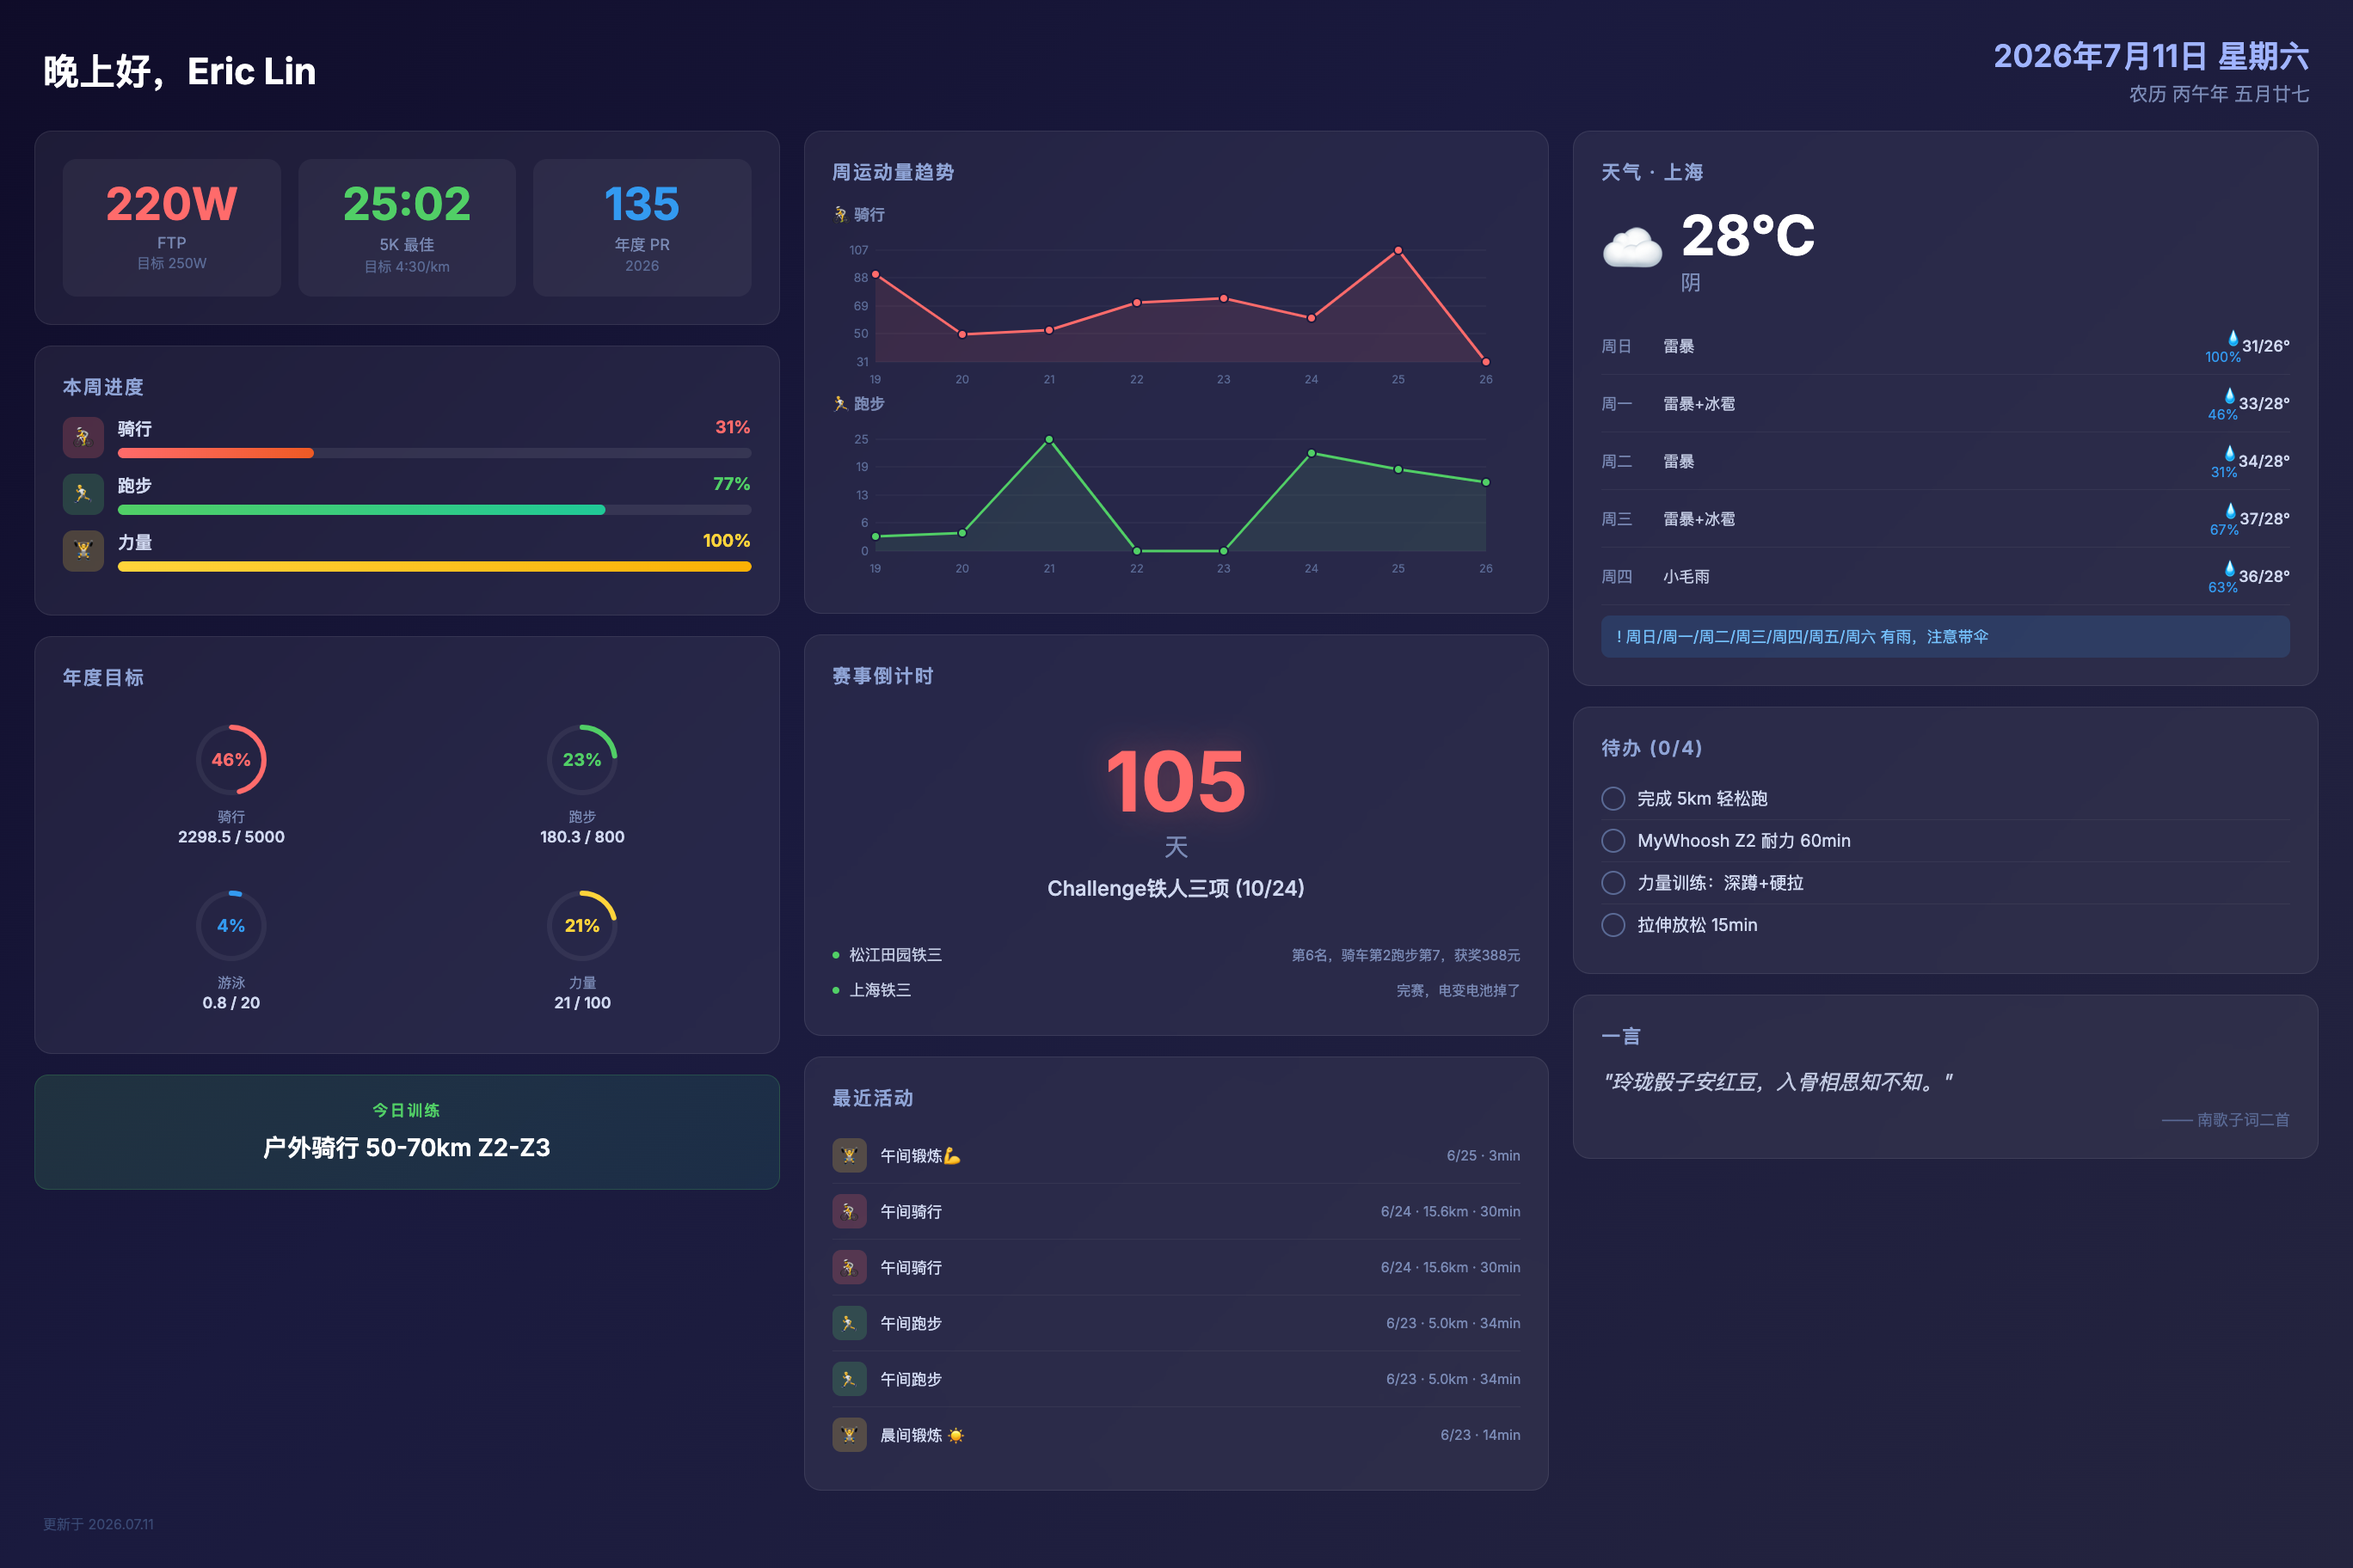
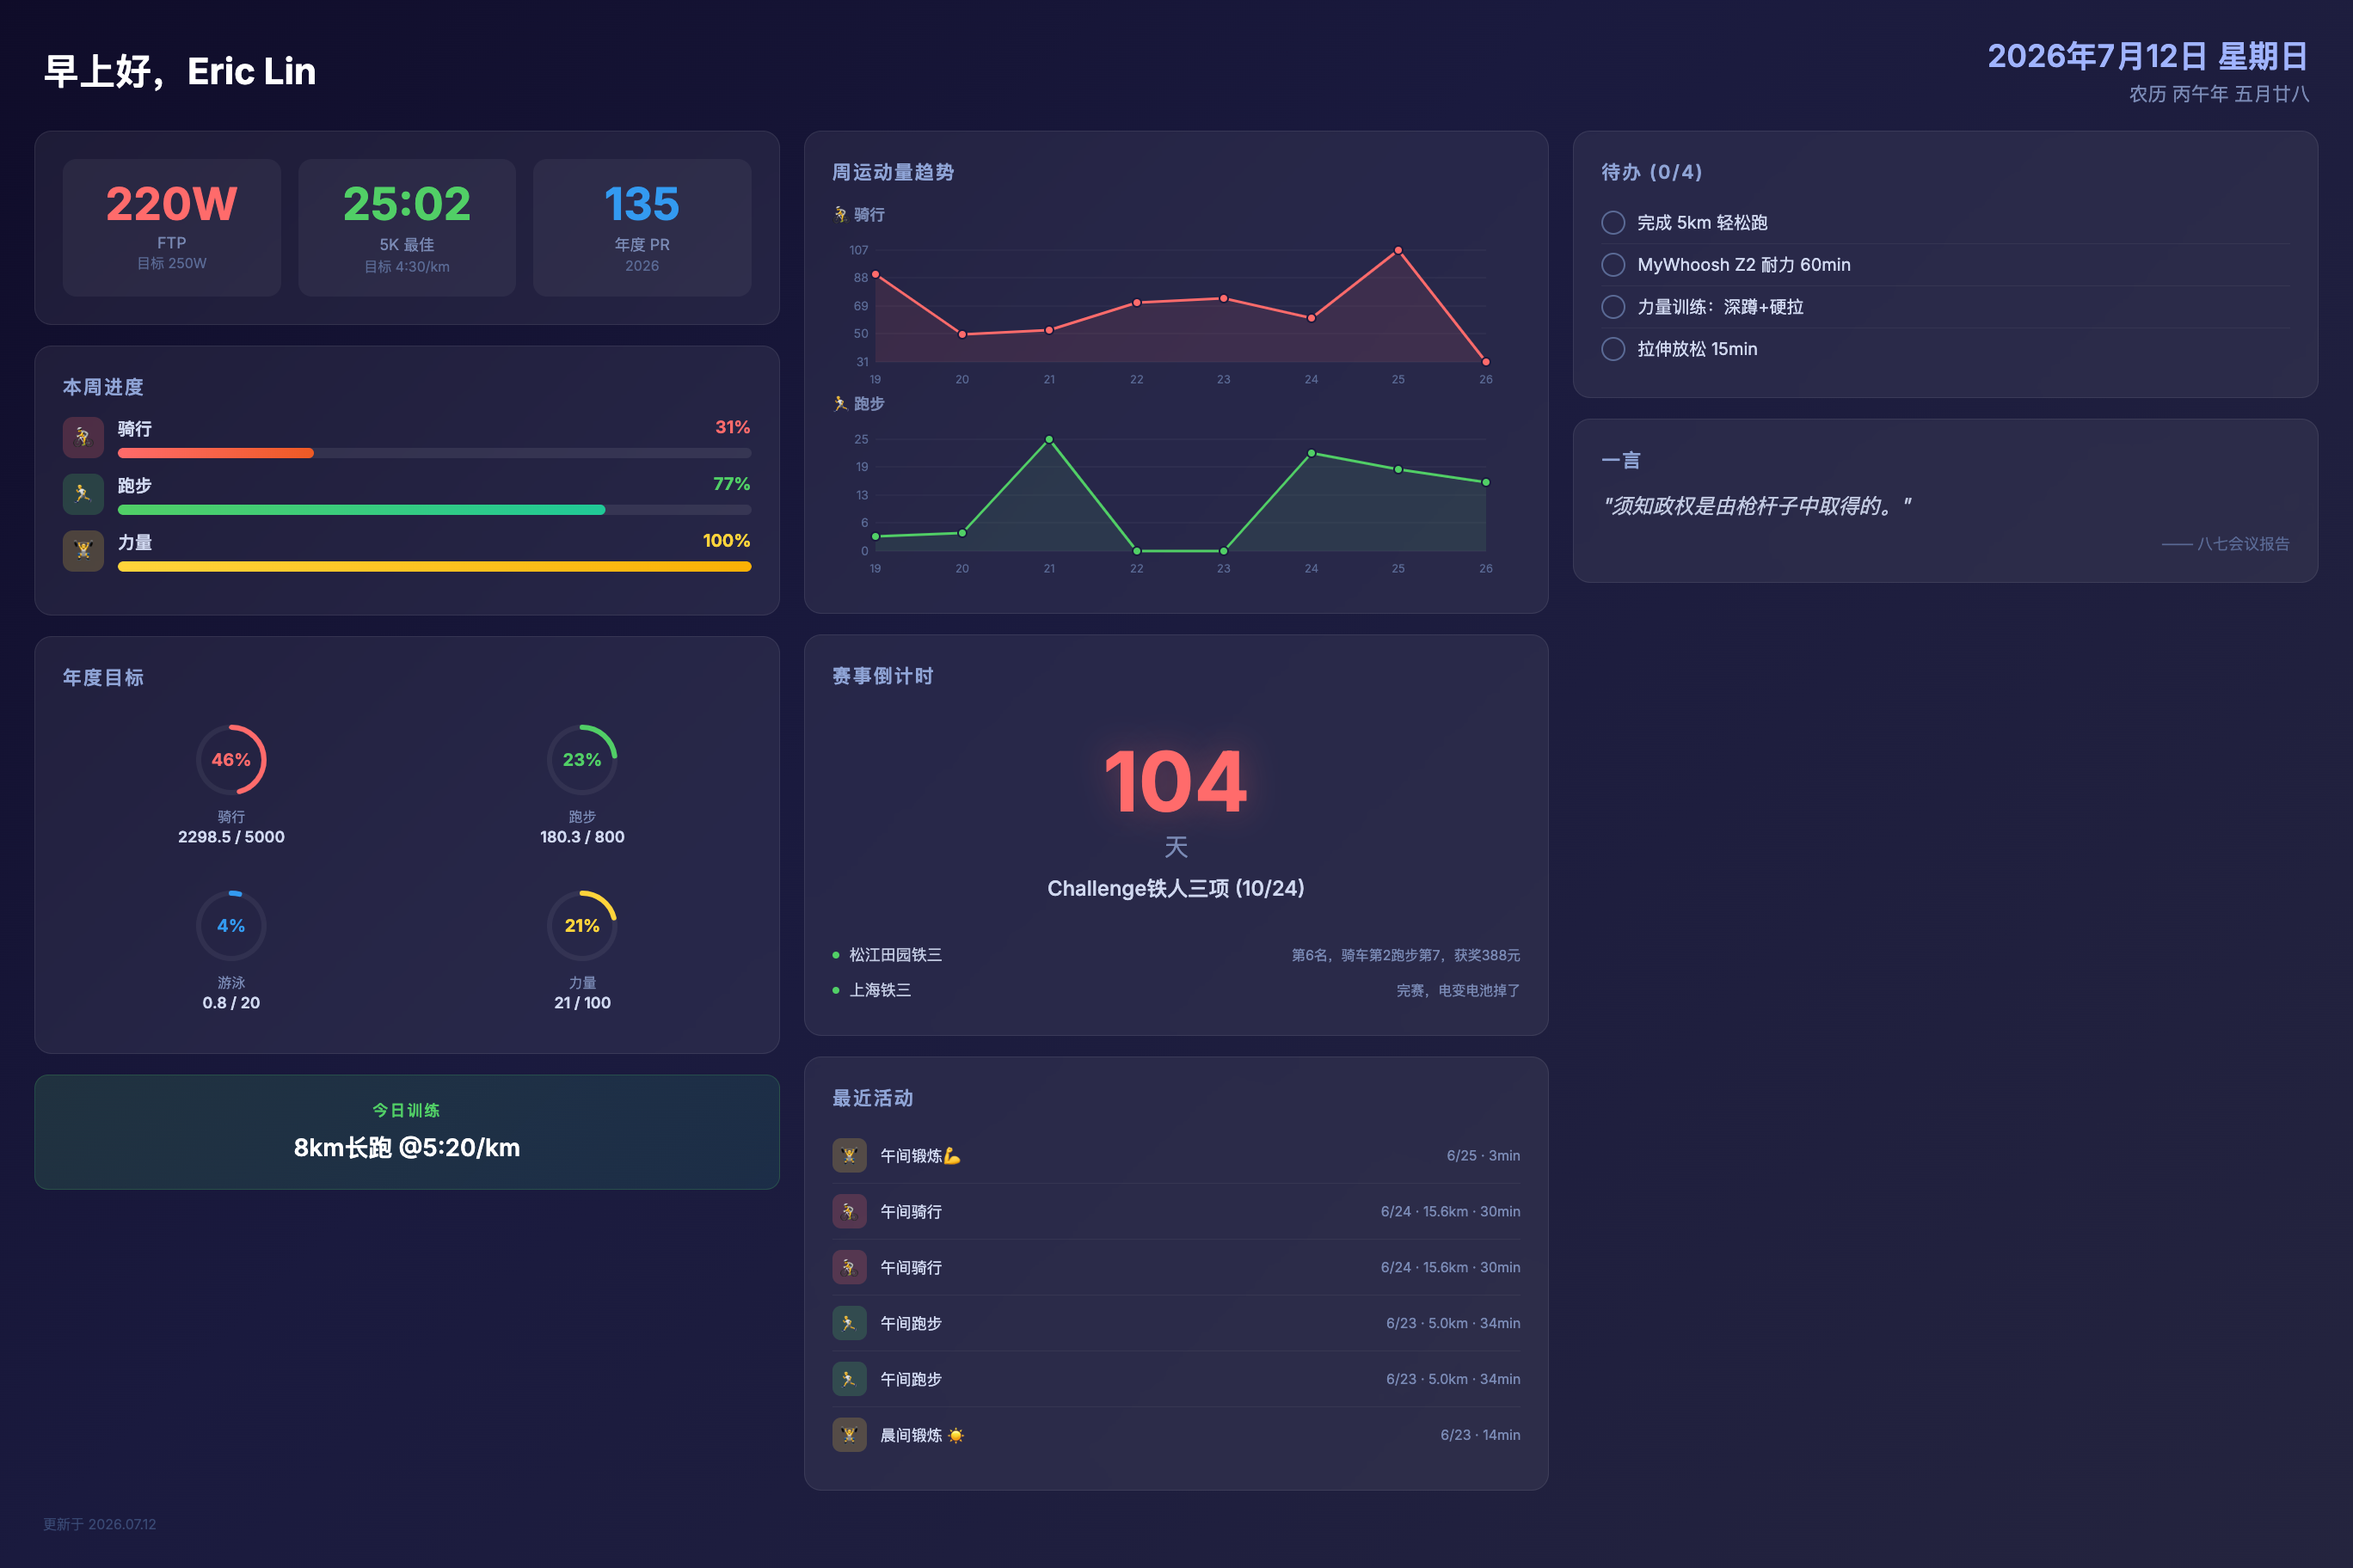
deploy: 2026-07-12-07:00

diff --git a/screensaver.html b/screensaver.html
@@ -490,13 +490,13 @@ html, body {
 <!-- ===== TOP BAR ===== -->
 <div class="top-bar">
   <div>
-    <div class="greeting">晚上好，Eric Lin</div>
+    <div class="greeting">早上好，Eric Lin</div>
     
   </div>
   <div class="date-info">
-    <div class="solar-date">2026年7月11日 星期六</div>
+    <div class="solar-date">2026年7月12日 星期日</div>
     
-    <div class="lunar-date">农历 丙午年 五月廿七</div>
+    <div class="lunar-date">农历 丙午年 五月廿八</div>
     
   </div>
 </div>
@@ -638,7 +638,7 @@ html, body {
   
   <div class="ai-today-card">
     <div class="ai-today-label">今日训练</div>
-    <div class="ai-today-text">户外骑行 50-70km Z2-Z3</div>
+    <div class="ai-today-text">8km长跑 @5:20/km</div>
   </div>
   
 
@@ -732,7 +732,7 @@ html, body {
   <div class="card">
     <div class="card-title">赛事倒计时</div>
     <div class="race-countdown">
-      <div class="countdown-number">105</div>
+      <div class="countdown-number">104</div>
       <div class="countdown-unit">天</div>
       <div class="countdown-name">Challenge铁人三项 (10/24)</div>
     </div>
@@ -805,58 +805,6 @@ html, body {
 
   <!-- Weather -->
   
-  <div class="card">
-    <div class="card-title">天气 · 上海</div>
-    <div class="weather-current">
-      <div class="weather-icon-big">☁</div>
-      <div>
-        <div class="weather-temp-big">28°C</div>
-        <div class="weather-desc">阴</div>
-      </div>
-    </div>
-    
-    
-    <div class="forecast-row">
-      <div class="forecast-day">周日</div>
-      <div class="forecast-desc">雷暴</div>
-      <div class="forecast-precip">💧100%</div>
-      <div class="forecast-range">31/26°</div>
-    </div>
-    
-    <div class="forecast-row">
-      <div class="forecast-day">周一</div>
-      <div class="forecast-desc">雷暴+冰雹</div>
-      <div class="forecast-precip">💧46%</div>
-      <div class="forecast-range">33/28°</div>
-    </div>
-    
-    <div class="forecast-row">
-      <div class="forecast-day">周二</div>
-      <div class="forecast-desc">雷暴</div>
-      <div class="forecast-precip">💧31%</div>
-      <div class="forecast-range">34/28°</div>
-    </div>
-    
-    <div class="forecast-row">
-      <div class="forecast-day">周三</div>
-      <div class="forecast-desc">雷暴+冰雹</div>
-      <div class="forecast-precip">💧67%</div>
-      <div class="forecast-range">37/28°</div>
-    </div>
-    
-    <div class="forecast-row">
-      <div class="forecast-day">周四</div>
-      <div class="forecast-desc">小毛雨</div>
-      <div class="forecast-precip">💧63%</div>
-      <div class="forecast-range">36/28°</div>
-    </div>
-    
-    
-    
-    <div class="rain-alert">! 周日/周一/周二/周三/周四/周五/周六 有雨，注意带伞</div>
-    
-  </div>
-  
 
   <!-- Todos -->
   
@@ -902,9 +850,9 @@ html, body {
   
   <div class="card">
     <div class="card-title">一言</div>
-    <div class="quote-text">"玲珑骰子安红豆，入骨相思知不知。"</div>
+    <div class="quote-text">"须知政权是由枪杆子中取得的。"</div>
     
-    <div class="quote-from">—— 南歌子词二首</div>
+    <div class="quote-from">—— 八七会议报告</div>
     
   </div>
   
@@ -913,7 +861,7 @@ html, body {
 
 <!-- ===== BOTTOM BAR ===== -->
 <div class="bottom-bar">
-  <div class="update-time">更新于 2026.07.11</div>
+  <div class="update-time">更新于 2026.07.12</div>
 </div>
 
 </div>

diff --git a/life.html b/life.html
@@ -89,7 +89,7 @@ html, body {
 <table class="header-table">
   <tr>
     <td class="header-left">生活</td>
-    <td class="header-right">2026.07.11</td>
+    <td class="header-right">2026.07.12</td>
   </tr>
 </table>
 
@@ -133,84 +133,16 @@ html, body {
 
 <!-- ===== 天气 ===== -->
 
-<div class="box">
-  <p class="section-title">☀ 天气 · 上海</p>
-  <table class="weather-table">
-    <tr>
-      <td class="weather-icon">~</td>
-      <td class="weather-temp">28°C</td>
-      <td class="weather-desc">阴</td>
-    </tr>
-  </table>
-  
-  <table class="forecast-table">
-    
-    <tr>
-      <td class="forecast-day">周日</td>
-      <td class="forecast-icon">!</td>
-      <td>雷暴</td>
-      <td class="forecast-range">31/26°C</td>
-    </tr>
-    
-    <tr>
-      <td class="forecast-day">周一</td>
-      <td class="forecast-icon">!</td>
-      <td>雷暴+冰雹</td>
-      <td class="forecast-range">33/28°C</td>
-    </tr>
-    
-    <tr>
-      <td class="forecast-day">周二</td>
-      <td class="forecast-icon">!</td>
-      <td>雷暴</td>
-      <td class="forecast-range">34/28°C</td>
-    </tr>
-    
-    <tr>
-      <td class="forecast-day">周三</td>
-      <td class="forecast-icon">!</td>
-      <td>雷暴+冰雹</td>
-      <td class="forecast-range">37/28°C</td>
-    </tr>
-    
-    <tr>
-      <td class="forecast-day">周四</td>
-      <td class="forecast-icon">.</td>
-      <td>小毛雨</td>
-      <td class="forecast-range">36/28°C</td>
-    </tr>
-    
-    <tr>
-      <td class="forecast-day">周五</td>
-      <td class="forecast-icon">!</td>
-      <td>雷暴</td>
-      <td class="forecast-range">34/28°C</td>
-    </tr>
-    
-    <tr>
-      <td class="forecast-day">周六</td>
-      <td class="forecast-icon">~</td>
-      <td>阴</td>
-      <td class="forecast-range">34/28°C</td>
-    </tr>
-    
-  </table>
-  
-  
-  <div class="rain-alert">! 周日/周一/周二/周三/周四/周五/周六 有雨，注意带伞</div>
-  
-</div>
-
 
 <!-- ===== 今日 ===== -->
 <div class="box">
   <p class="section-title">📅 今日</p>
   <table class="data-table">
     <tr>
-      <td>2026年7月11日 星期五</td>
+      <td>2026年7月12日 星期六</td>
     </tr>
     <tr>
-      <td>农历丙午年 五月廿七</td>
+      <td>农历丙午年 五月廿八</td>
     </tr>
   </table>
 </div>
@@ -261,9 +193,9 @@ html, body {
 
 <div class="box">
   <p class="section-title">💬 一言</p>
-  <p class="quote-text">玲珑骰子安红豆，入骨相思知不知。</p>
+  <p class="quote-text">须知政权是由枪杆子中取得的。</p>
   
-  <p class="quote-from">—— 南歌子词二首</p>
+  <p class="quote-from">—— 八七会议报告</p>
   
 </div>
 

diff --git a/index.html b/index.html
@@ -74,7 +74,7 @@ html, body {
 <table class="header-table">
   <tr>
     <td class="header-left">Eric Lin · 运动</td>
-    <td class="header-right">2026.07.11</td>
+    <td class="header-right">2026.07.12</td>
   </tr>
 </table>
 
@@ -225,17 +225,10 @@ html, body {
 <div class="ai-plan">
   <div class="ai-plan-title">AI 训练建议</div>
   
-  <div class="ai-today">今日: 户外骑行 60km Z2-Z3</div>
+  <div class="ai-today">今日: 长跑 8km @5:20/km</div>
   
   
   <table class="ai-weekly">
-    
-    <tr>
-      <td class="day">周六</td>
-      
-      <td>户外骑行 60km Z2-Z3</td>
-      
-    </tr>
     
     <tr>
       <td class="day">周日</td>
@@ -279,6 +272,13 @@ html, body {
       
     </tr>
     
+    <tr>
+      <td class="day">周六</td>
+      
+      <td>户外骑行 60km Z2-Z3</td>
+      
+    </tr>
+    
   </table>
   
   
@@ -293,7 +293,7 @@ html, body {
   <p class="section-title">即将到来</p>
   
   <div class="countdown-box">
-    <div class="countdown-days">105</div>
+    <div class="countdown-days">104</div>
     <div class="countdown-label">距 Challenge铁人三项 (10/24)</div>
   </div>
   

diff --git a/work.html b/work.html
@@ -89,7 +89,7 @@ html, body {
 <table class="header-table">
   <tr>
     <td class="header-left">工作</td>
-    <td class="header-right">2026.07.11</td>
+    <td class="header-right">2026.07.12</td>
   </tr>
 </table>
 
